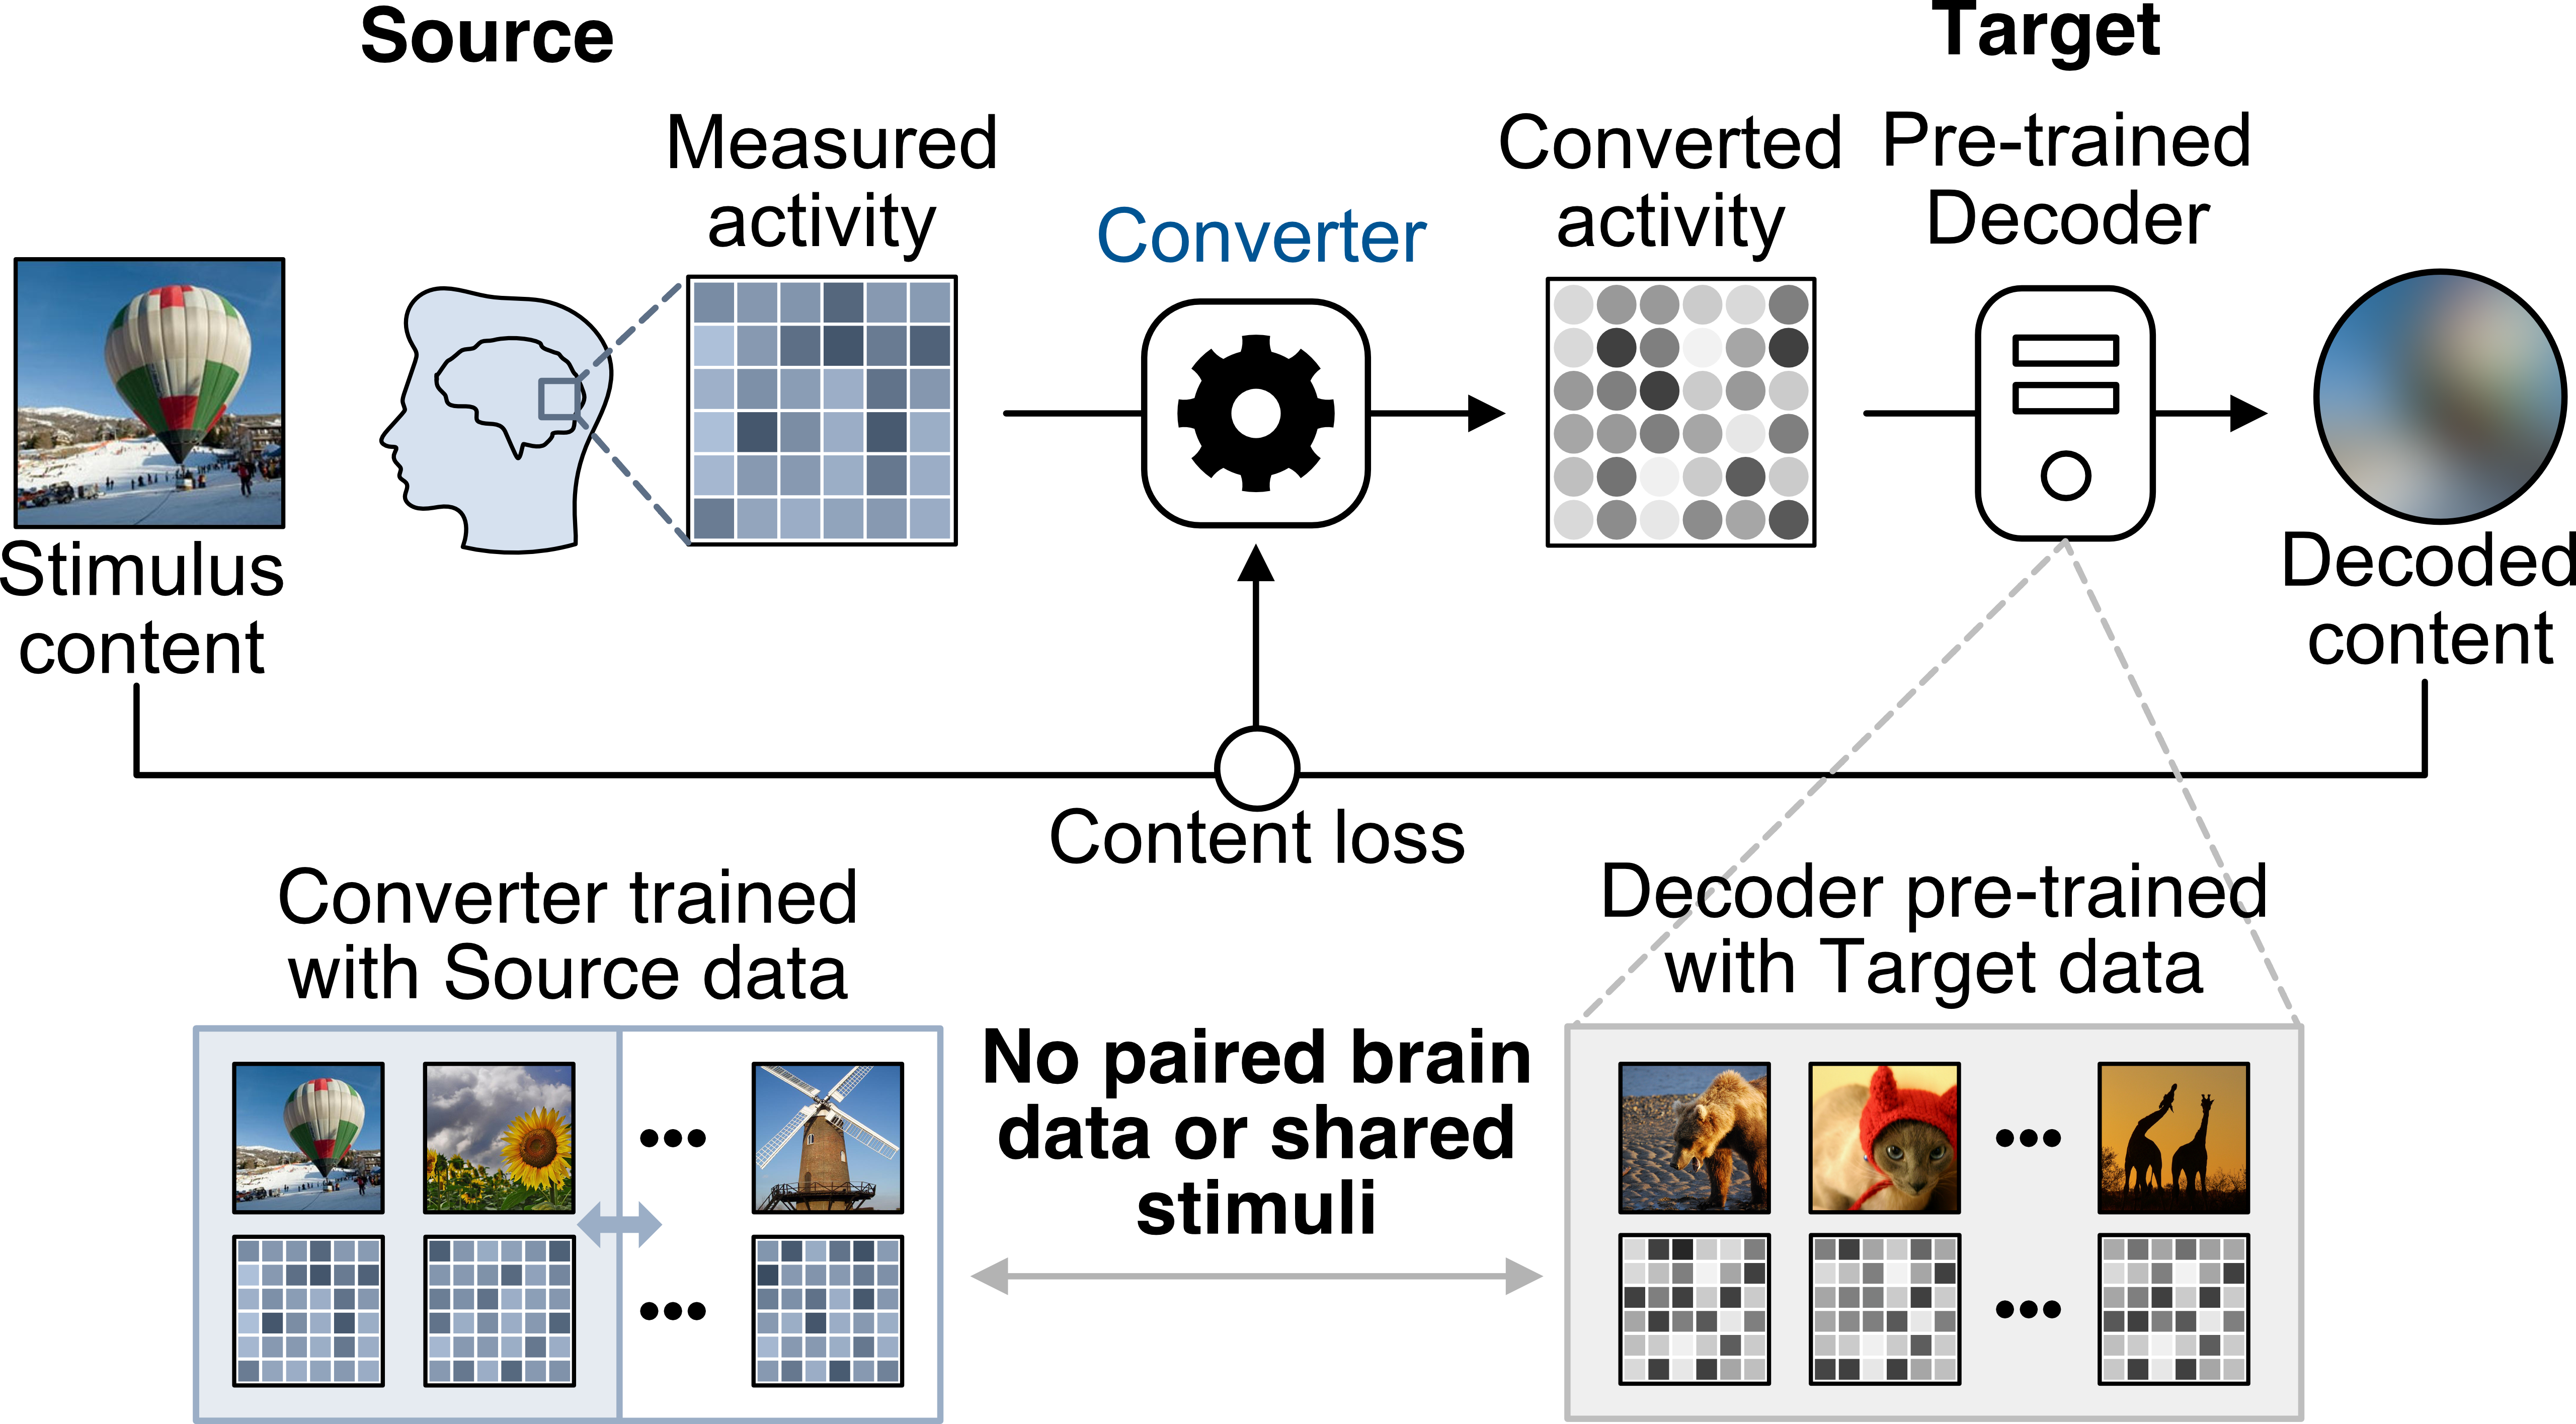
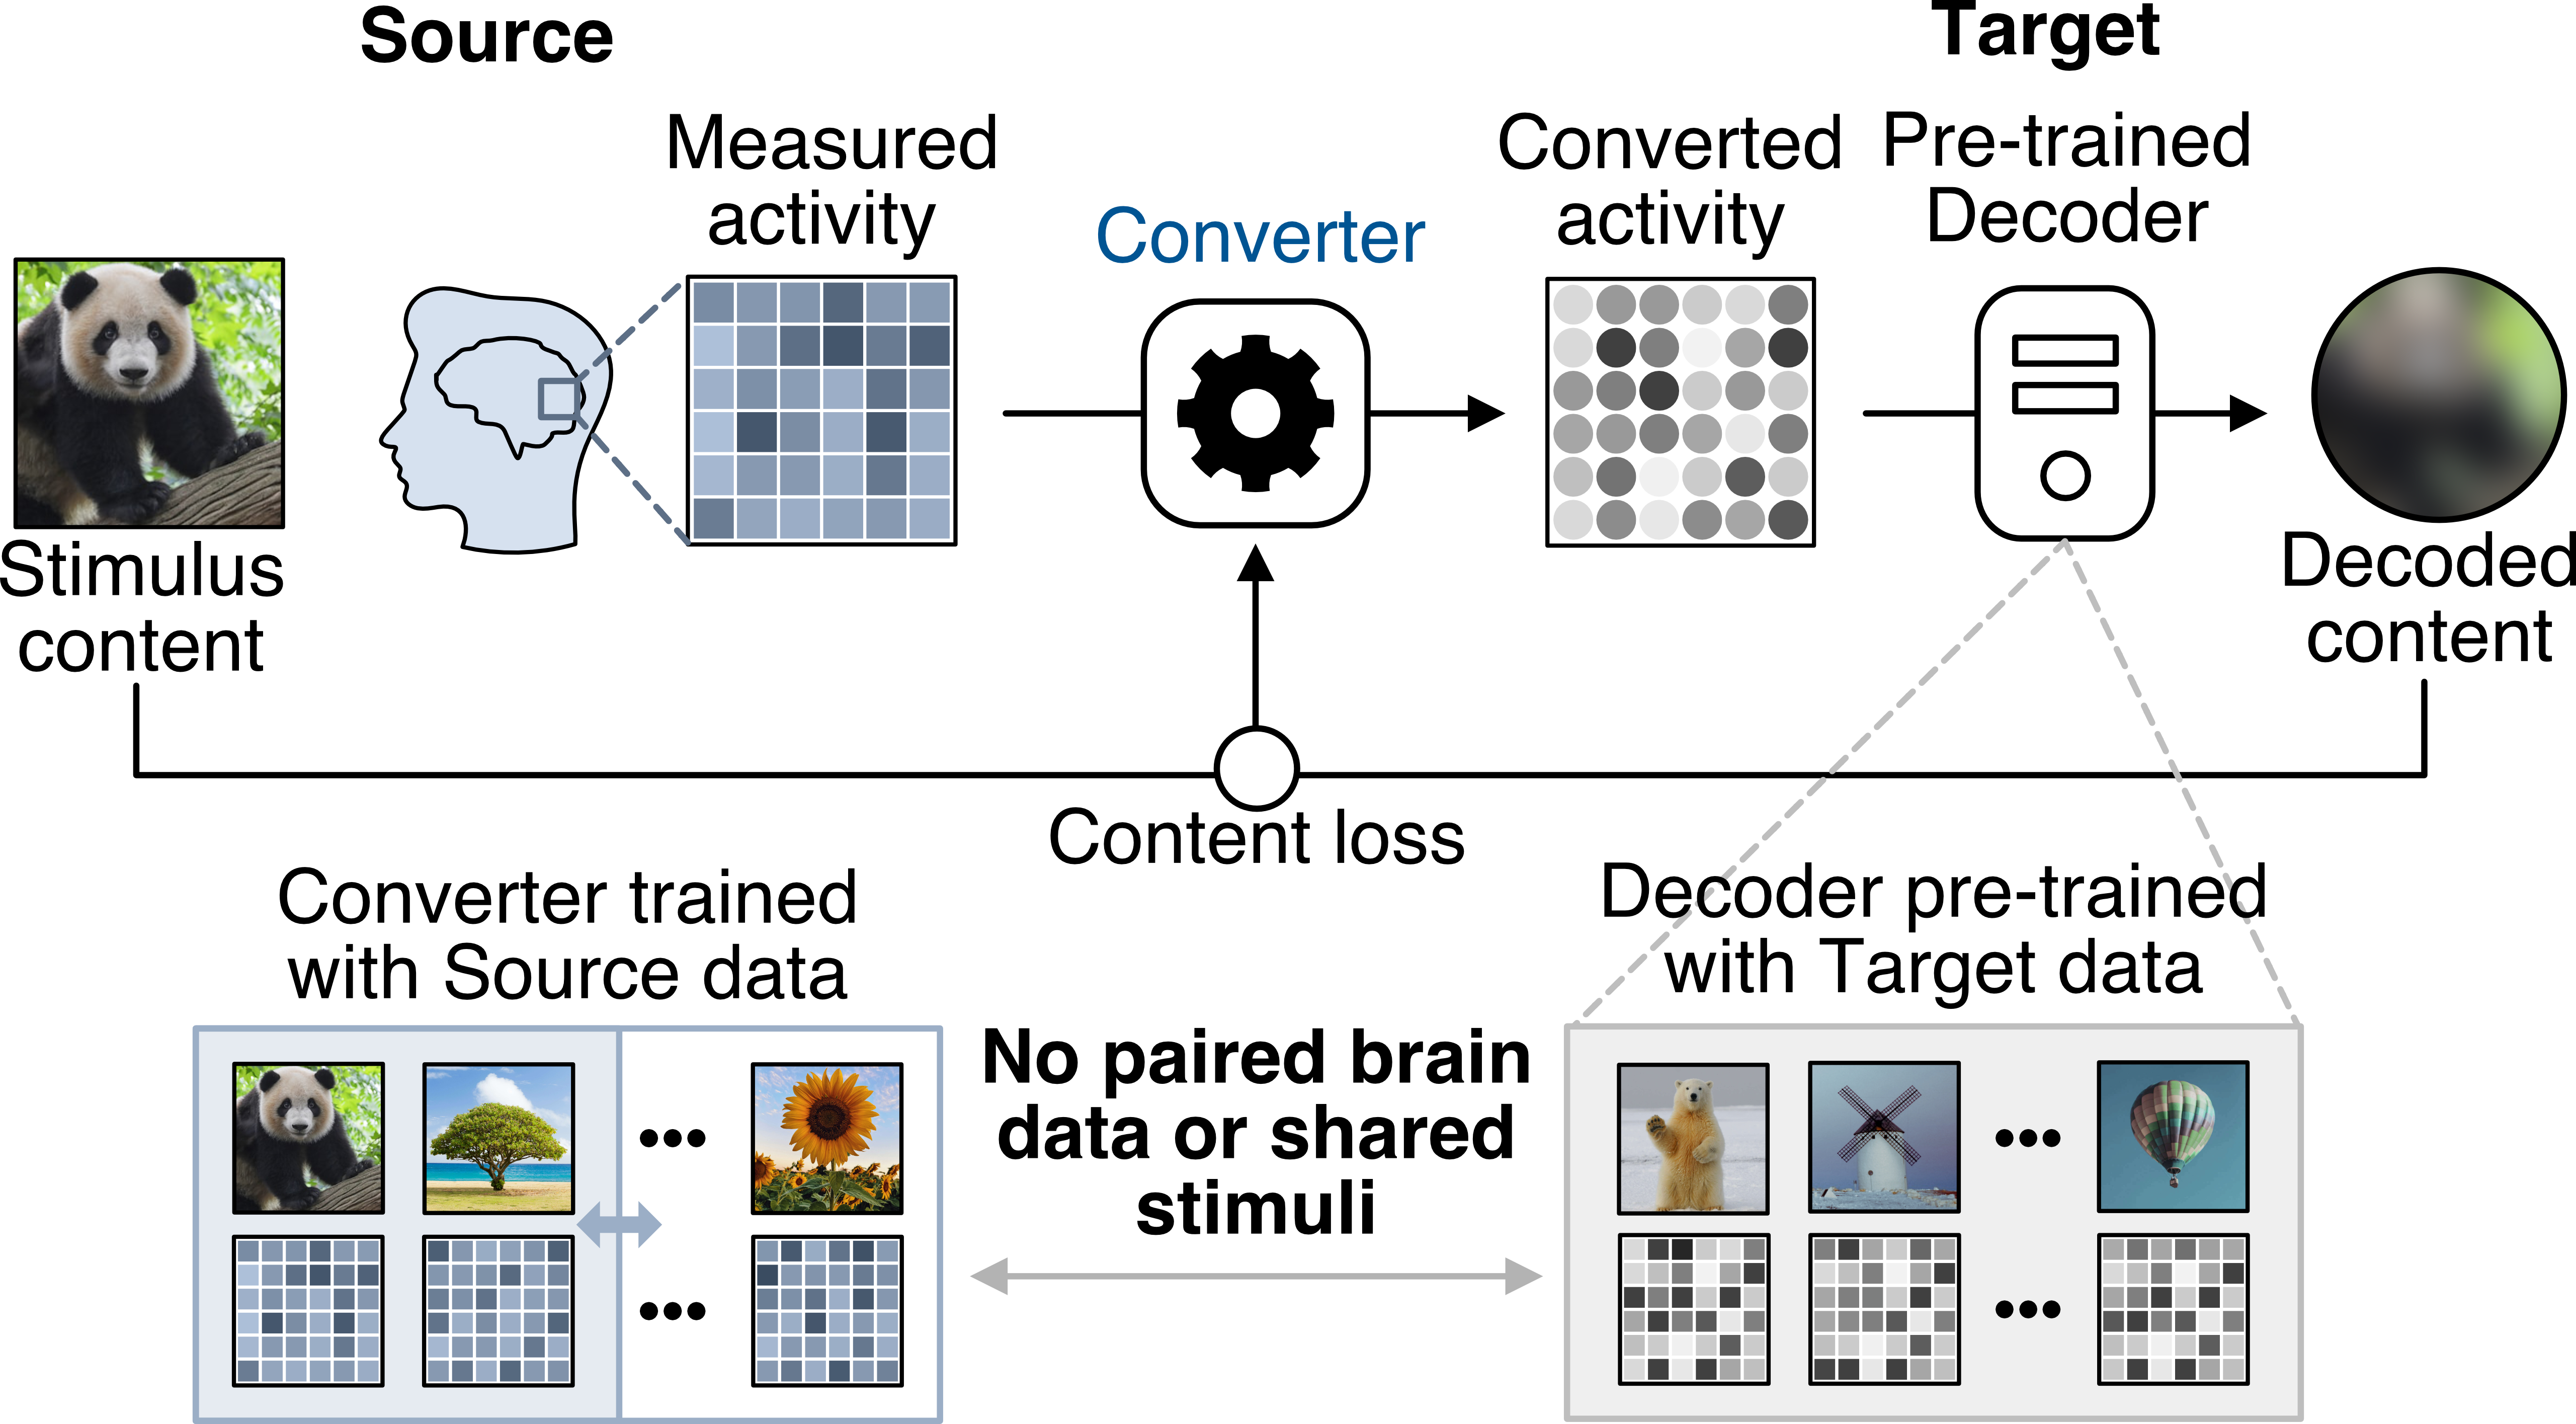
updated

diff --git a/README.md b/README.md
@@ -13,7 +13,7 @@
 <h2 align="center">Inter-individual and inter-site neural code conversion</h2>
 
   <p align="center">
-Haibao Wang, Jun Kai Ho, Fan L. Cheng, Shuntaro C. Aoki, Yusuke Muraki, Misato Tanaka, Yukiyasu Kamitani
+Haibao Wang, Jun Kai Ho, Fan L. Cheng, Shuntaro C. Aoki, Yusuke Muraki, <br> Misato Tanaka, Jong-Yun Park & Yukiyasu Kamitani
 <p align="center">
 
 
@@ -197,6 +197,6 @@ python plot_figure.py
 
 ## Citation
 
-Wang, H., Ho, J. K., Cheng, F. L., Aoki, S. C., Muraki, Y., Tanaka, M., & Kamitani, Y. (2024). Inter-individual and inter-site neural code conversion without shared stimuli. arXiv preprint arXiv:2403.11517.
+Wang, H., Ho, J. K., Cheng, F. L., Aoki, S. C., Muraki, Y., Tanaka, M., Park, J.-Y., & Kamitani, Y. (2025). Inter-individual and inter-site neural code conversion without shared stimuli. *Nature Computational Science, 5*, 534–546. https://doi.org/10.1038/s43588-025-00826-5
 
 <p align="right">(<a href="#readme-top">back to top</a>)</p>